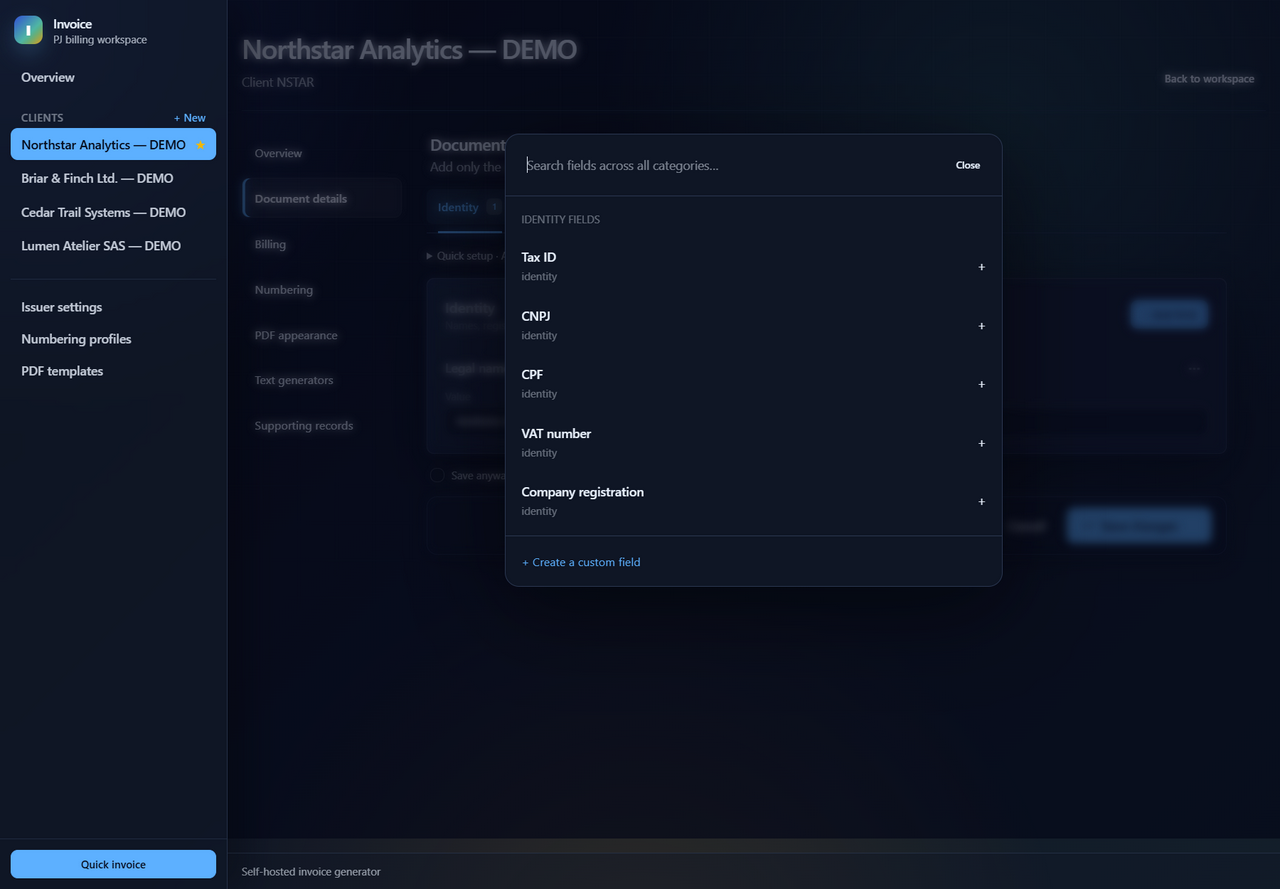
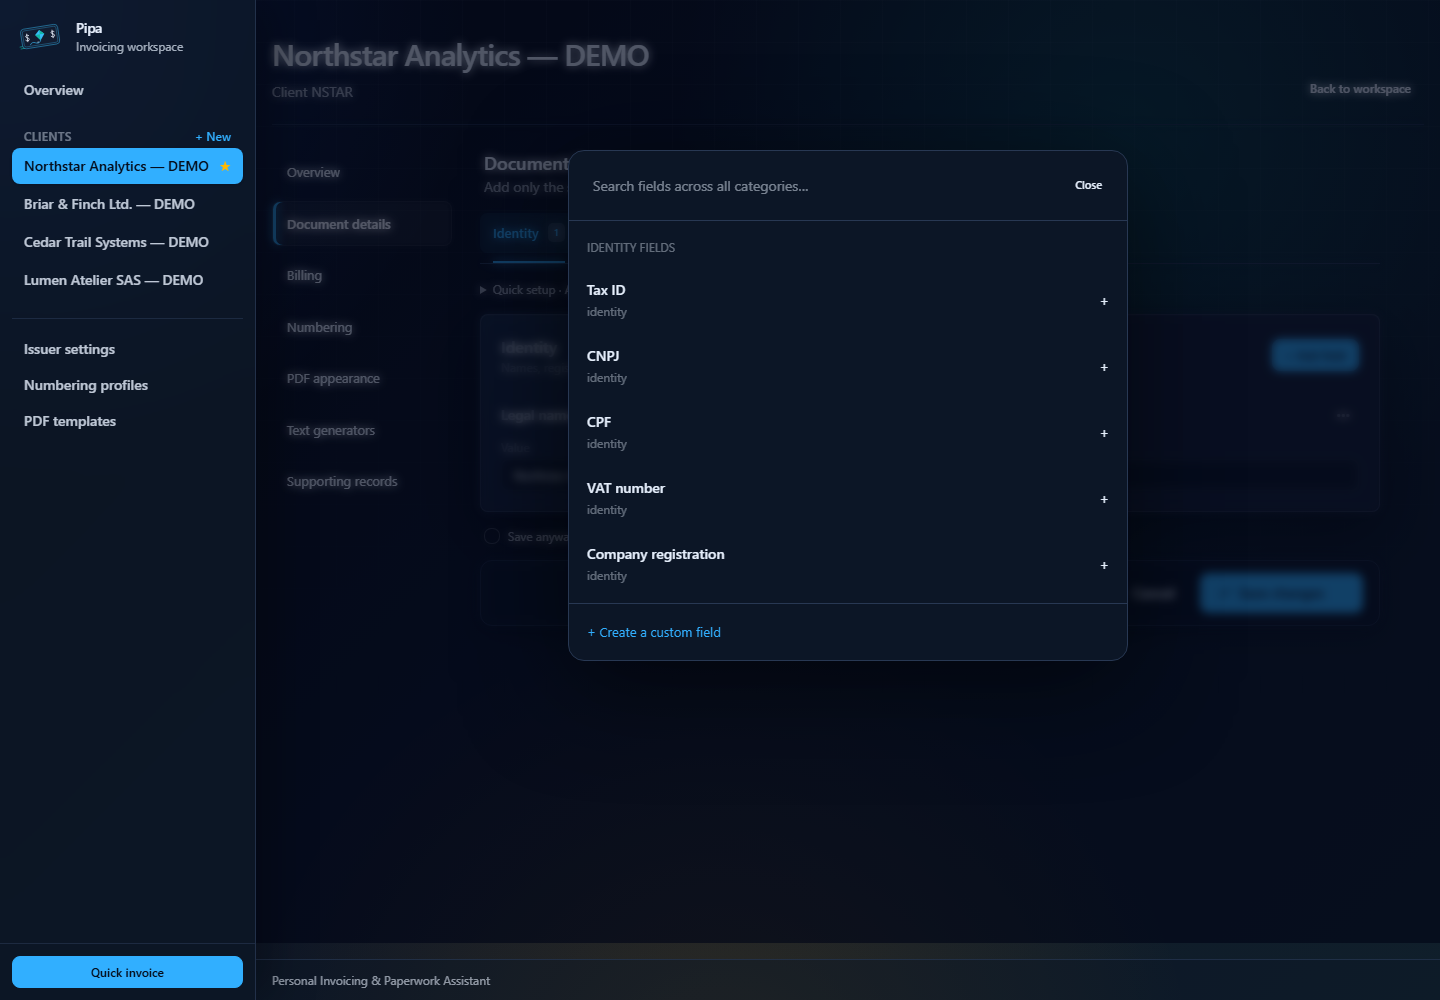
feat: rebrand application and documentation as Pipa

diff --git a/src/web/layout.tsx b/src/web/layout.tsx
@@ -25,7 +25,7 @@ export function Layout({
   defaultClientId = null,
   children,
 }: LayoutProps) {
-  const pageTitle = title ? `${title} · Invoice` : "Invoice";
+  const pageTitle = title ? `${title} · Pipa` : "Pipa";
   return (
     <>
       {raw("<!DOCTYPE html>")}
@@ -33,6 +33,7 @@ export function Layout({
       <head>
         <meta charset="utf-8" />
         <meta name="viewport" content="width=device-width, initial-scale=1" />
+        <link rel="icon" type="image/svg+xml" href="/public/pipa-logo.svg" />
         <title>{pageTitle}</title>
         <link rel="stylesheet" href="/public/app.css?v=client-experience-7" />
         <script src="/public/app.js?v=custom-field-name-8" defer></script>
@@ -70,8 +71,8 @@ export function Layout({
                 ☰
               </button>
               <a href="/" class="flex items-center gap-2">
-                <span class="brand-mark">I</span>
-                <span class="text-sm font-semibold tracking-tight">Invoice</span>
+                <img class="h-8 w-10 object-contain" src="/public/pipa-logo.svg" alt="Pipa" />
+                <span class="text-sm font-semibold tracking-tight">Pipa</span>
               </a>
             </header>
 
@@ -81,7 +82,7 @@ export function Layout({
 
             <footer class="border-t border-base-300/70 bg-base-100/45">
               <div class="mx-auto max-w-7xl px-4 py-3 text-xs text-base-content/60">
-                Self-hosted invoice generator
+                Personal Invoicing &amp; Paperwork Assistant
               </div>
             </footer>
           </div>
@@ -109,11 +110,11 @@ function Sidebar({
     >
       <div class="flex items-center justify-between px-4 py-4">
         <a href="/" class="flex items-center gap-3">
-          <span class="brand-mark">I</span>
+          <img class="h-10 w-12 object-contain" src="/public/pipa-logo.svg" alt="Pipa" />
           <span class="leading-tight">
-            <span class="block text-sm font-semibold tracking-tight">Invoice</span>
+            <span class="block text-sm font-semibold tracking-tight">Pipa</span>
             <span class="block text-xs text-base-content/70">
-              PJ billing workspace
+              Invoicing workspace
             </span>
           </span>
         </a>

diff --git a/src/app.test.ts b/src/app.test.ts
@@ -30,6 +30,18 @@ describe("app foundation", () => {
     const body = await res.text();
     expect(body).toContain("<!DOCTYPE html>");
     expect(body).toContain("<title>Overview");
+    expect(body).toContain("<title>Overview · Pipa</title>");
+    expect(body).toContain('href="/public/pipa-logo.svg"');
+    expect(body).toContain('alt="Pipa"');
+    expect(body).toContain("Invoicing workspace");
+    expect(body).toContain("Personal Invoicing &amp; Paperwork Assistant");
+  });
+
+  it("serves the Pipa logo asset", async () => {
+    const res = await app.fetch(new Request("http://localhost/public/pipa-logo.svg"));
+    expect(res.status).toBe(200);
+    expect(res.headers.get("content-type")).toContain("image/svg+xml");
+    expect(await res.text()).toContain("Pipa — kite banknote");
   });
 
   it("returns a bare fragment (no layout) for htmx requests", async () => {

diff --git a/src/runtime/embedded-files.generated.ts b/src/runtime/embedded-files.generated.ts
@@ -22,6 +22,7 @@ import file17 from "../public/alpine.min.js" with { type: "file" };
 import file18 from "../public/app.css" with { type: "file" };
 import file19 from "../public/app.js" with { type: "file" };
 import file20 from "../public/htmx.min.js" with { type: "file" };
+import file21 from "../public/pipa-logo.svg" with { type: "file" };
 
 export const embeddedRuntimeFiles = [
   { source: file0, target: "drizzle/0000_mushy_the_call.sql" },
@@ -45,4 +46,5 @@ export const embeddedRuntimeFiles = [
   { source: file18, target: "src/public/app.css" },
   { source: file19, target: "src/public/app.js" },
   { source: file20, target: "src/public/htmx.min.js" },
+  { source: file21, target: "src/public/pipa-logo.svg" },
 ] as const;

diff --git a/src/index.tsx b/src/index.tsx
@@ -34,7 +34,7 @@ async function start() {
     fetch: app.fetch,
   });
   const displayHost = listenOptions.hostname.includes(":") ? `[${listenOptions.hostname}]` : listenOptions.hostname;
-  console.log(`▶ invoice app listening on http://${displayHost}:${env.port}`);
+  console.log(`▶ Pipa listening on http://${displayHost}:${env.port}`);
 }
 
 start().catch((error) => {

diff --git a/README.md b/README.md
@@ -1,12 +1,14 @@
-# Invoice
+# Pipa
 
-Invoice is a lightweight invoicing workspace for freelancers, independent developers, and small service businesses. Create professional invoice PDFs and keep client details, correspondence, and supporting documents together.
+<img src="src/public/pipa-logo.svg" alt="Pipa logo: a kite inside a banknote" width="160">
+
+Pipa (Personal Invoicing & Paperwork Assistant) is a lightweight invoicing workspace for freelancers, independent developers, and small service businesses. Create professional invoice PDFs and keep client details, correspondence, and supporting documents together.
 
 Built for a small number of recurring or occasional invoices, it helps you reuse the details and text you need each month—whether your clients are local or overseas.
 
 ![Overview with fictional clients and invoices](docs/images/overview.png)
 
-Invoice is a web app designed for self-hosting, but it is also practical to use on your own computer: SQLite keeps your data local, and the app can run as a compiled Bun executable. Start it locally and open it in your browser—no separate database server needed. This is browser-based desktop use, not a native desktop app; the current executable build targets Linux x64. See the [desktop-use guide](docs/desktop.md).
+Pipa is a web app designed for self-hosting, but it is also practical to use on your own computer: SQLite keeps your data local, and the app can run as a compiled Bun executable. Start it locally and open it in your browser—no separate database server needed. This is browser-based desktop use, not a native desktop app; the current executable build targets Linux x64. See the [desktop-use guide](docs/desktop.md).
 
 ## Features
 
@@ -32,6 +34,8 @@ See the [roadmap](docs/roadmap.md) for direction; no release dates are promised.
 ## Why I built it
 
 I built this for my own workflow as a developer running a small business in Brazil and invoicing overseas clients. The tools I tried were either more complex than my monthly routine needed or did not help enough with organizing the text and documentation around each invoice.
+
+*Pipa* means “kite” in Brazilian Portuguese—and doubles as Personal Invoicing & Paperwork Assistant.
 
 That need is not specific to Brazil. A consultant can reuse an invoice email, a freelancer can keep delivery notes and receipts alongside a project invoice, and a small studio can use consistent client details and numbering each month. The aim is a focused invoicing workspace, not another system to administer.
 
@@ -69,6 +73,8 @@ docker compose -f compose.yml up -d
 Open <http://localhost:3000>. On first use, configure the issuer, create a client, then create an invoice. See [the user guide](docs/user-guide.md).
 
 `compose.yml` pins `ghcr.io/arieltl/invoice:0.1.2` by default. That published version predates the beta features described here; the new beta image has not been released yet. Set `INVOICE_IMAGE_TAG` to the desired published version when upgrading. While the repository/image is private, pulling may require GHCR access.
+
+The repository is now [arieltl/pipa](https://github.com/arieltl/pipa). The GHCR image name, Compose service `invoice`, and executable `dist/invoice` retain their existing names for deployment compatibility.
 
 Both Compose files bind to `127.0.0.1` by default. Set `INVOICE_BIND_ADDRESS` to a trusted LAN interface only when you intend to allow network access. Remote access needs an authenticating proxy or private-network gateway.
 

diff --git a/AGENTS.md b/AGENTS.md
@@ -2,7 +2,9 @@
 
 ## Project Overview
 
-Invoice is a lightweight, self-hosted web app for freelancers and small service businesses with low-volume, repeatable invoicing. It creates commercial invoice PDFs, editable generated text, and configurable supporting records/files. Its Brazilian origins are context, not a restriction on the product: explain country-specific terminology in public docs and prefer general workflows.
+Pipa (Personal Invoicing & Paperwork Assistant) is a lightweight, self-hosted web app for freelancers and small service businesses with low-volume, repeatable invoicing. It creates commercial invoice PDFs, editable generated text, and configurable supporting records/files. Its Brazilian origins are context, not a restriction on the product: explain country-specific terminology in public docs and prefer general workflows.
+
+Repository: `arieltl/pipa`. Brand asset: `src/public/pipa-logo.svg`. The GHCR package `arieltl/invoice`, Compose service/container names, executable `dist/invoice`, and `INVOICE_*` settings deliberately retain deployment-compatible names. Do not blindly replace domain words such as "Invoice" or rename stored files/data.
 
 Read these docs for deeper context before broad architecture changes:
 

diff --git a/docs/self-hosting.md b/docs/self-hosting.md
@@ -5,6 +5,11 @@ For personal use on your computer, including the compiled executable, see the
 
 ## Install from GHCR
 
+Pipa's repository is [arieltl/pipa](https://github.com/arieltl/pipa). The existing
+GHCR package remains `ghcr.io/arieltl/invoice` so the repository rename does not
+require an image migration. Compose service names and `INVOICE_*` settings are
+unchanged.
+
 The standard installation uses the prebuilt GHCR image in `compose.yml`; no
 local build is needed. Obtain the Compose files from the repository, prepare
 the writable data directory as described in the [README](../README.md), then run:

diff --git a/docs/desktop.md b/docs/desktop.md
@@ -1,6 +1,6 @@
 # Use on your own computer
 
-Invoice can serve as a personal desktop tool: run it on your computer and open
+Pipa can serve as a personal desktop tool: run it on your computer and open
 it in your browser. Your invoices and files stay local. There is no native
 desktop window, installer, tray icon, or automatic background launcher; closing
 the browser does not stop the app.

diff --git a/CONTRIBUTING.md b/CONTRIBUTING.md
@@ -1,6 +1,6 @@
 # Contributing
 
-Thanks for helping improve Invoice. The project is in beta; keep changes focused and explain behavior that affects stored invoices, migrations, files, or PDF output.
+Thanks for helping improve Pipa. The project is in beta; keep changes focused and explain behavior that affects stored invoices, migrations, files, or PDF output.
 
 ## Local setup
 

diff --git a/docs/design.md b/docs/design.md
@@ -1,6 +1,6 @@
 # Design guide
 
-This document describes the current implementation shape and the constraints
+This document describes Pipa's current implementation and the constraints
 that keep the beta small to operate. The product motivation is described in
 the [README](../README.md); this guide is about technical decisions.
 

diff --git a/docs/roadmap.md b/docs/roadmap.md
@@ -1,6 +1,6 @@
 # Roadmap
 
-Invoice is intentionally focused on a small, self-hosted workflow. This list
+Pipa is intentionally focused on a small, self-hosted workflow. This list
 describes direction, not promises or a schedule.
 
 ## Current beta
